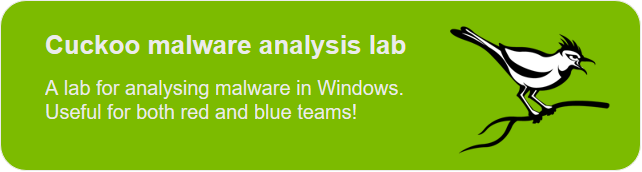
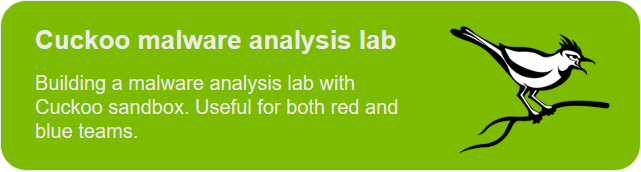
Updates labs/cuckoo-malware-analysis-lab.md
Auto commit by GitBook Editor

diff --git a/labs/cuckoo-malware-analysis-lab.md b/labs/cuckoo-malware-analysis-lab.md
@@ -1,6 +1,6 @@
 
 ![](/assets/cuckoo.png)
-_Building a malware analysis lab with Cuckoo sandbox_
+
 
 I was inspired by this [great article](https://rastamouse.me/2017/05/playing-with-cuckoo/) by Rastamouse and decided to build an identical. I got it set up with some minor issues that I worked it. So in this guide I try to address some of the things that didn't work perfectly when setting this up to make it as smooth as possible. The result is approximately the same as rasta's lab so you can refer to his figures if you need to visualize this.
 
